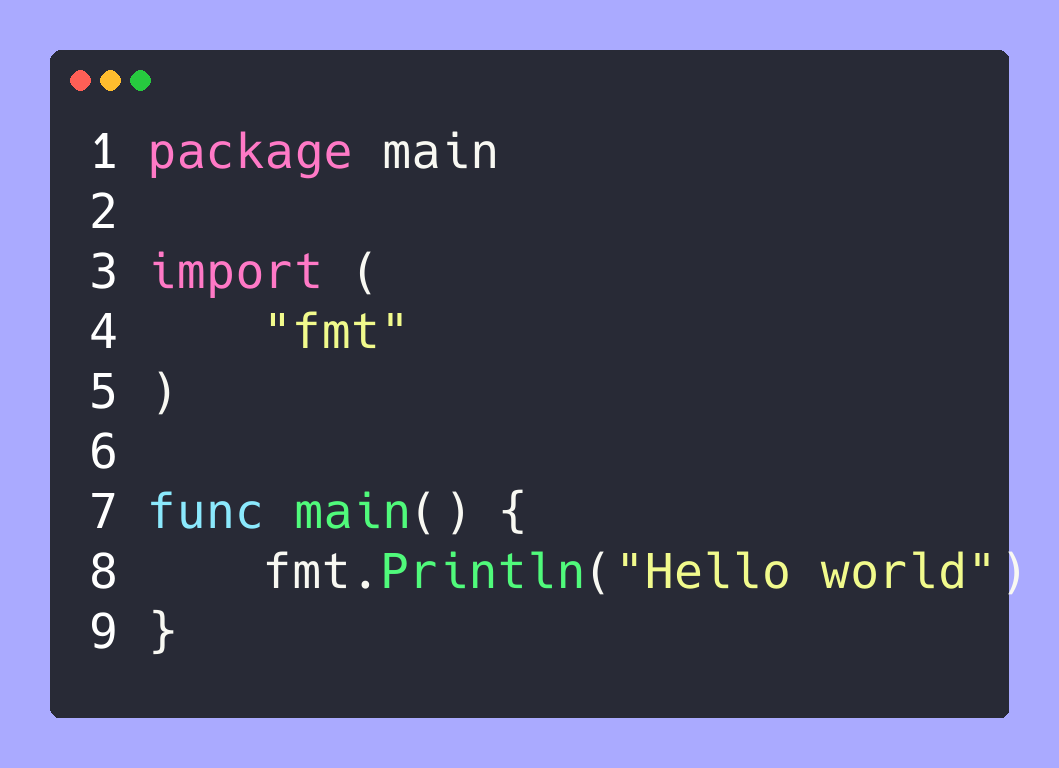
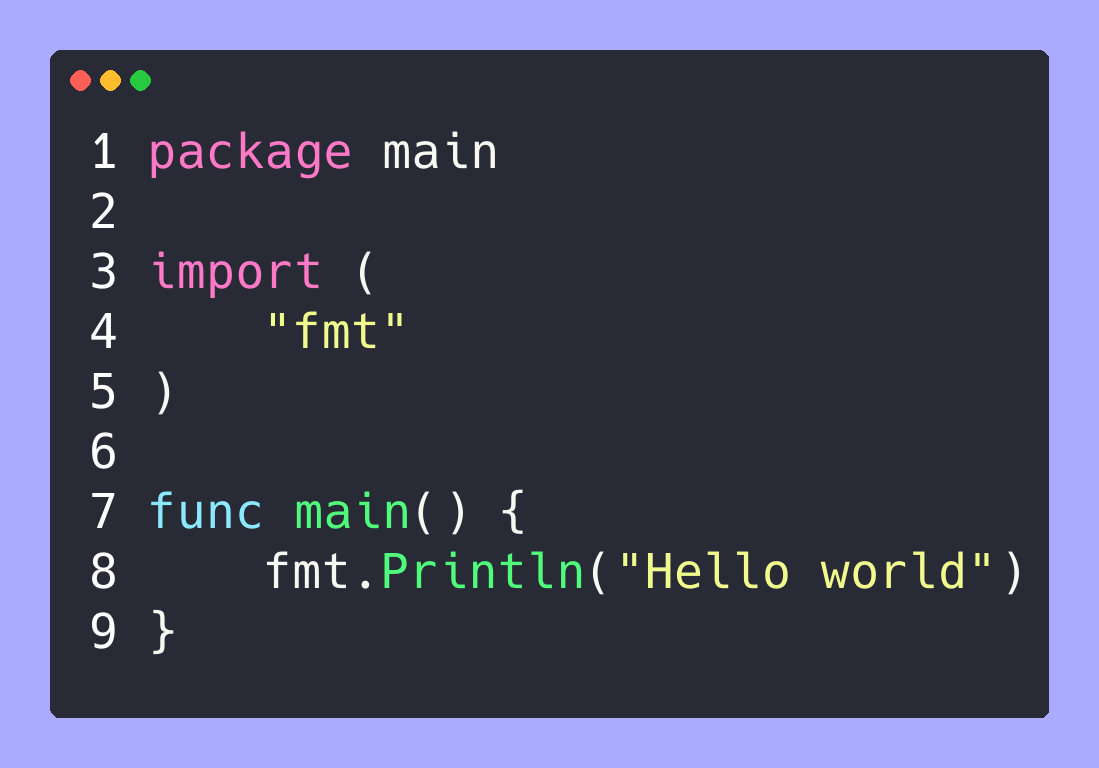
Improved font size handling
* Move base font size to contant, don't parse strings if we don't have
  to
* Take font size into account when calculating image size

diff --git a/panel.go b/panel.go
@@ -17,11 +17,13 @@ import (
 )
 
 const (
-	paddingWidth      = 60
-	paddingHeight     = 60
-	windowHeight      = 20 * 3
-	windowHeightNoBar = 10
-	lineWidth         = 40
+	paddingWidth        = 60
+	paddingHeight       = 60
+	windowHeight        = 20 * 3
+	windowHeightNoBar   = 10
+	lineNumberWidthBase = 40
+
+	FontSizeBase = 24.0
 
 	radius = 10
 )
@@ -38,8 +40,8 @@ var (
 
 // CalcWidth calculates the image width from the length of the longest line of
 // the source code, padding and line number
-func CalcWidth(maxLineLen int) int {
-	return maxLineLen + (paddingWidth * 2) + lineWidth
+func CalcWidth(maxLineLen int, lineNumberWidth int) int {
+	return maxLineLen + (paddingWidth * 2) + lineNumberWidth
 }
 
 // CalcHeight calculates the image height from the number of lines of the
@@ -84,7 +86,11 @@ func NewImage(src io.Reader, face font.Face, fontSize float64, style, background
 		return nil, err
 	}
 
-	width := CalcWidth(font.MeasureString(face, " ").Ceil() * (ret + 1))
+	width := CalcWidth(
+		font.MeasureString(face, " ").Ceil()*(ret+1),
+		// adjust the width of the line number area based on font size
+		int(lineNumberWidthBase*fontSize/FontSizeBase),
+	)
 	height := CalcHeight(ln, fontSize, noWindowAccessBar)
 
 	p := NewPanel(0, 0, width, height)

diff --git a/cli/cli.go b/cli/cli.go
@@ -144,14 +144,12 @@ func run(opts Options, r io.Reader, filename string) error {
 		}
 	}
 
-	fontSizeString := `24.0`
-	if opts.FontSize != `` {
-		fontSizeString = opts.FontSize
-	}
-
-	fontSize, err := strconv.ParseFloat(fontSizeString, 64)
-	if err != nil {
-		return err
+	fontSize := germanium.FontSizeBase
+	if opts.FontSize != "" {
+		fontSize, err = strconv.ParseFloat(opts.FontSize, 64)
+		if err != nil {
+			return err
+		}
 	}
 
 	face, err := loadFont(fontData, fontSize)
